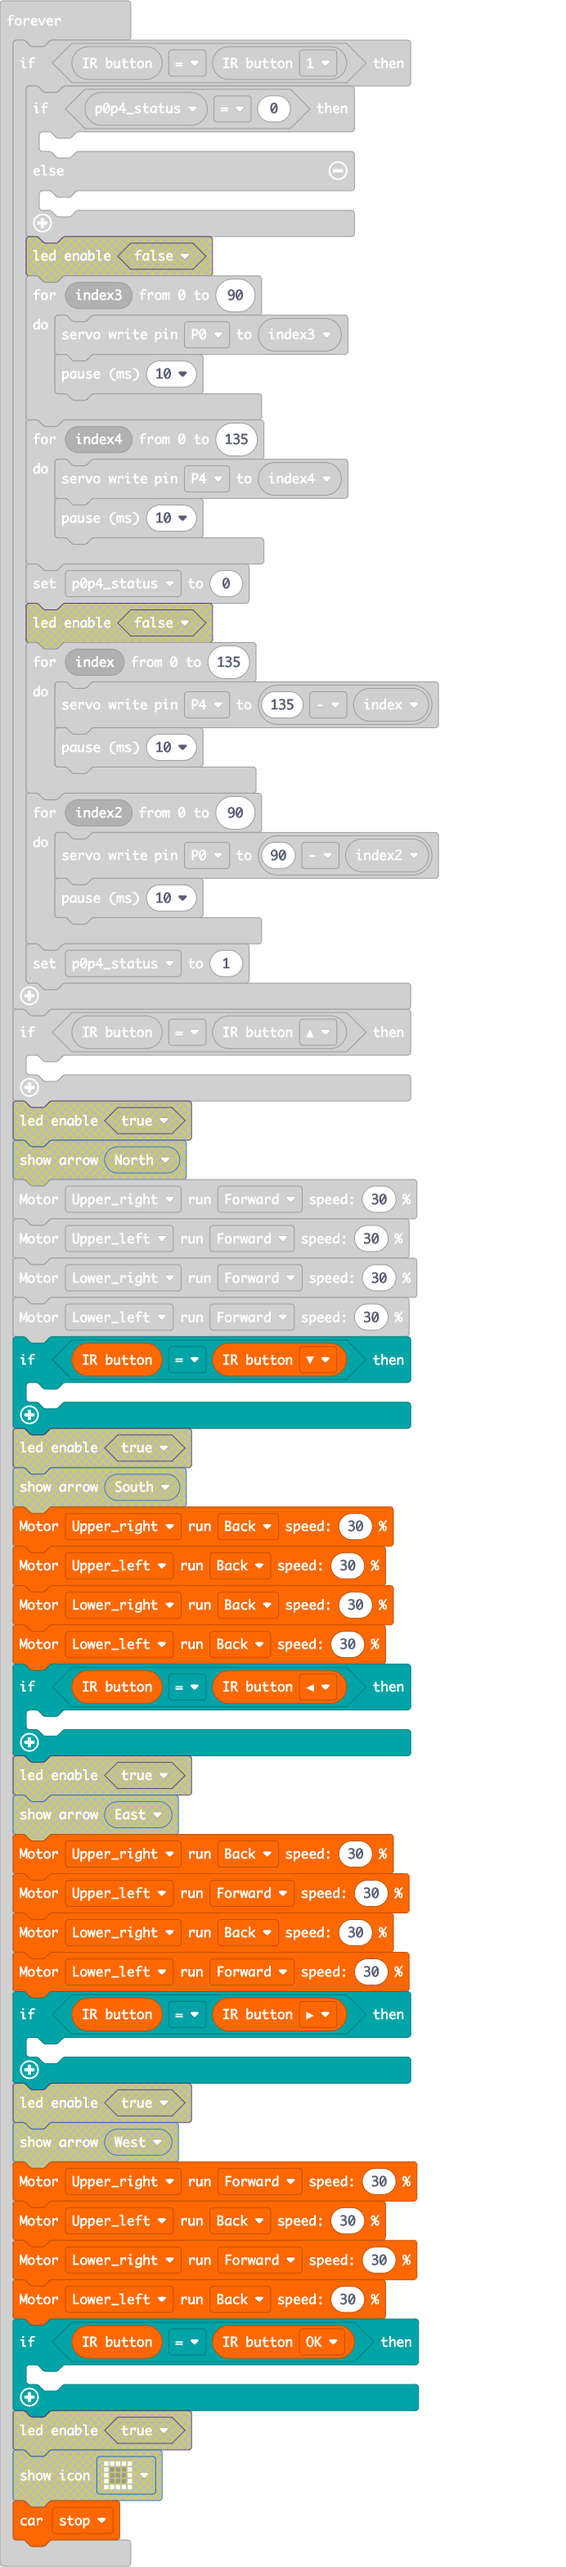
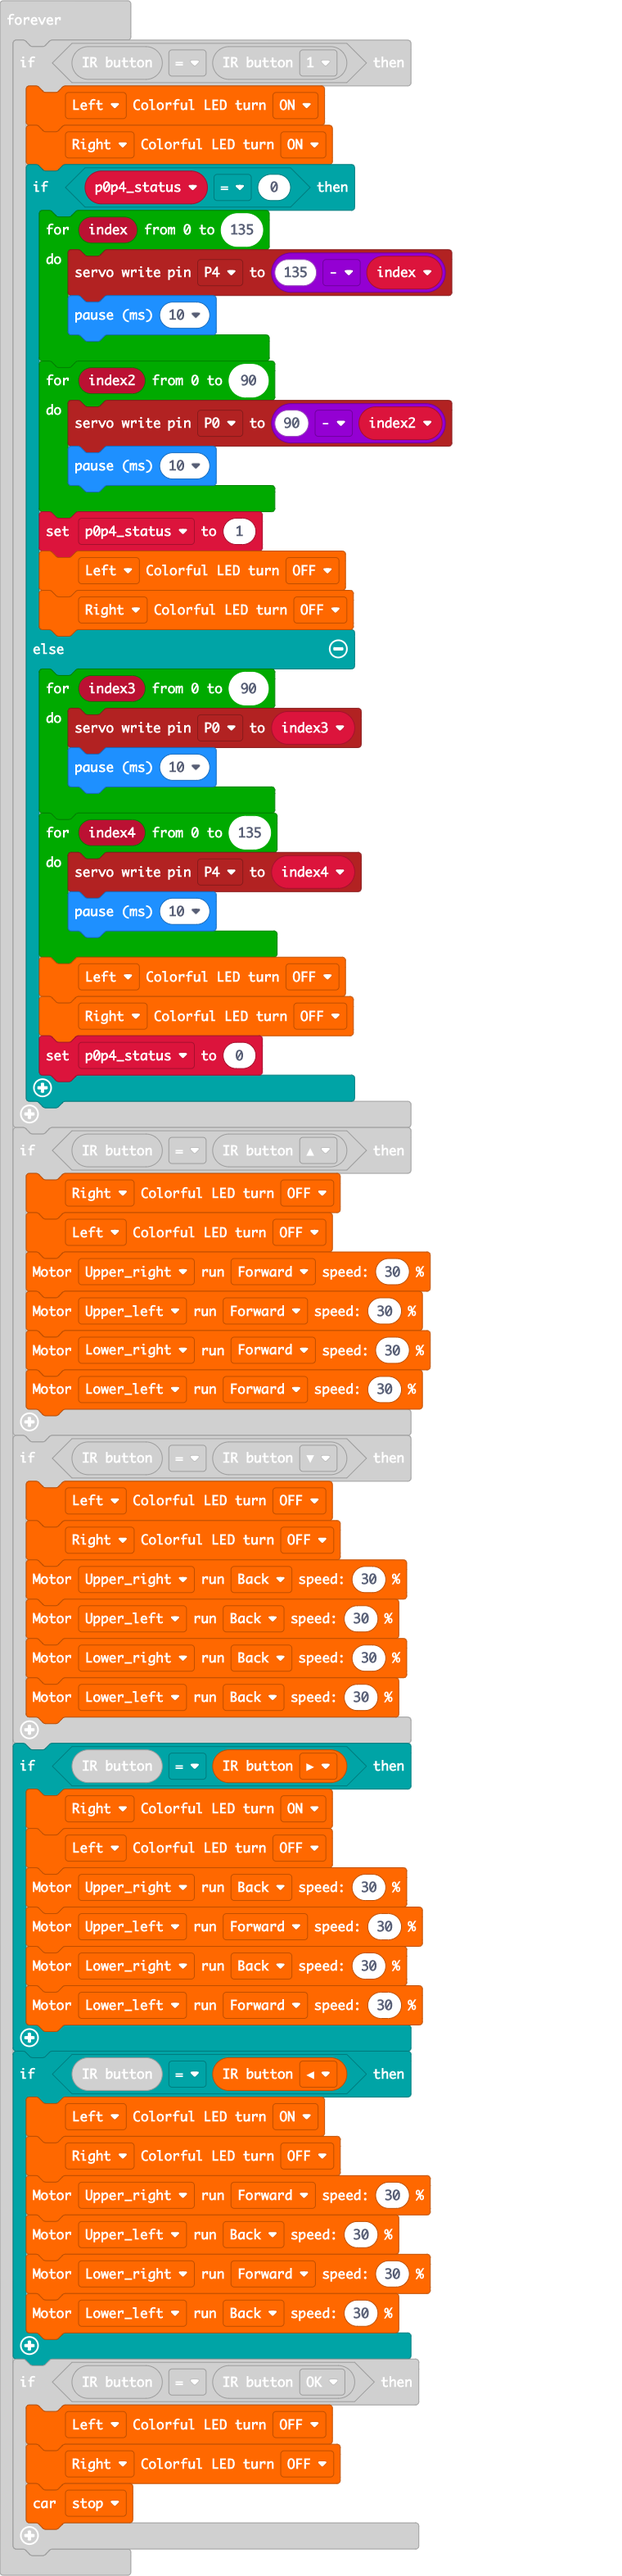
Update main.blocks, main.ts

diff --git a/main.ts b/main.ts
@@ -15,6 +15,8 @@ basic.forever(function () {
 })
 basic.forever(function () {
     if (irRemote.returnIrButton() == irRemote.irButton(IrButton.Number_1)) {
+        mecanumRobot.setLed(LedCount.Left, LedState.ON)
+        mecanumRobot.setLed(LedCount.Right, LedState.ON)
         if (p0p4_status == 0) {
             for (let index = 0; index <= 135; index++) {
                 pins.servoWritePin(AnalogPin.P4, 135 - index)
@@ -25,6 +27,8 @@ basic.forever(function () {
                 basic.pause(10)
             }
             p0p4_status = 1
+            mecanumRobot.setLed(LedCount.Left, LedState.OFF)
+            mecanumRobot.setLed(LedCount.Right, LedState.OFF)
         } else {
             for (let index3 = 0; index3 <= 90; index3++) {
                 pins.servoWritePin(AnalogPin.P0, index3)
@@ -34,34 +38,46 @@ basic.forever(function () {
                 pins.servoWritePin(AnalogPin.P4, index4)
                 basic.pause(10)
             }
+            mecanumRobot.setLed(LedCount.Left, LedState.OFF)
+            mecanumRobot.setLed(LedCount.Right, LedState.OFF)
             p0p4_status = 0
         }
     }
     if (irRemote.returnIrButton() == irRemote.irButton(IrButton.Up)) {
+        mecanumRobot.setLed(LedCount.Right, LedState.OFF)
+        mecanumRobot.setLed(LedCount.Left, LedState.OFF)
         mecanumRobot.Motor(LR.Upper_right, MD.Forward, 30)
         mecanumRobot.Motor(LR.Upper_left, MD.Forward, 30)
         mecanumRobot.Motor(LR.Lower_right, MD.Forward, 30)
         mecanumRobot.Motor(LR.Lower_left, MD.Forward, 30)
     }
     if (irRemote.returnIrButton() == irRemote.irButton(IrButton.Down)) {
+        mecanumRobot.setLed(LedCount.Left, LedState.OFF)
+        mecanumRobot.setLed(LedCount.Right, LedState.OFF)
         mecanumRobot.Motor(LR.Upper_right, MD.Back, 30)
         mecanumRobot.Motor(LR.Upper_left, MD.Back, 30)
         mecanumRobot.Motor(LR.Lower_right, MD.Back, 30)
         mecanumRobot.Motor(LR.Lower_left, MD.Back, 30)
     }
-    if (irRemote.returnIrButton() == irRemote.irButton(IrButton.Left)) {
+    if (irRemote.returnIrButton() == irRemote.irButton(IrButton.Right)) {
+        mecanumRobot.setLed(LedCount.Right, LedState.ON)
+        mecanumRobot.setLed(LedCount.Left, LedState.OFF)
         mecanumRobot.Motor(LR.Upper_right, MD.Back, 30)
         mecanumRobot.Motor(LR.Upper_left, MD.Forward, 30)
         mecanumRobot.Motor(LR.Lower_right, MD.Back, 30)
         mecanumRobot.Motor(LR.Lower_left, MD.Forward, 30)
     }
-    if (irRemote.returnIrButton() == irRemote.irButton(IrButton.Right)) {
+    if (irRemote.returnIrButton() == irRemote.irButton(IrButton.Left)) {
+        mecanumRobot.setLed(LedCount.Left, LedState.ON)
+        mecanumRobot.setLed(LedCount.Right, LedState.OFF)
         mecanumRobot.Motor(LR.Upper_right, MD.Forward, 30)
         mecanumRobot.Motor(LR.Upper_left, MD.Back, 30)
         mecanumRobot.Motor(LR.Lower_right, MD.Forward, 30)
         mecanumRobot.Motor(LR.Lower_left, MD.Back, 30)
     }
     if (irRemote.returnIrButton() == irRemote.irButton(IrButton.Ok)) {
+        mecanumRobot.setLed(LedCount.Left, LedState.OFF)
+        mecanumRobot.setLed(LedCount.Right, LedState.OFF)
         mecanumRobot.state(MotorState.stop)
     }
 })
